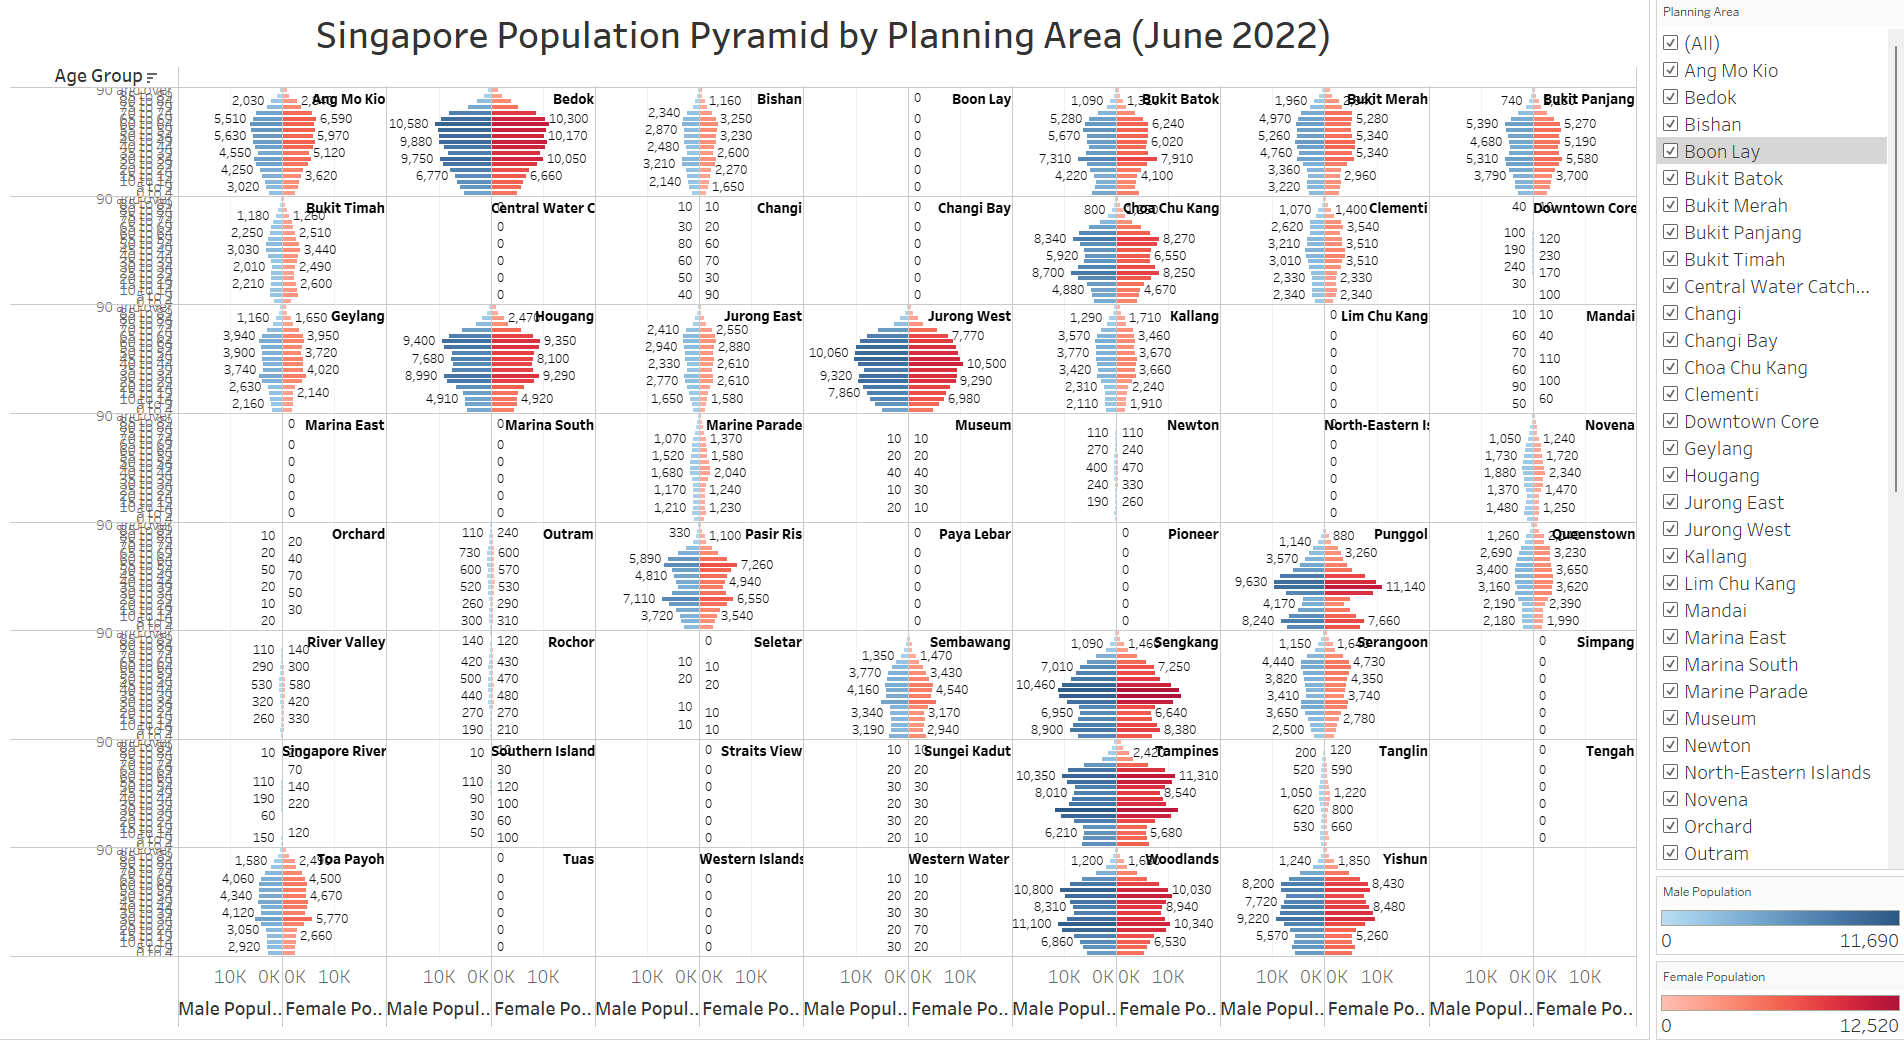
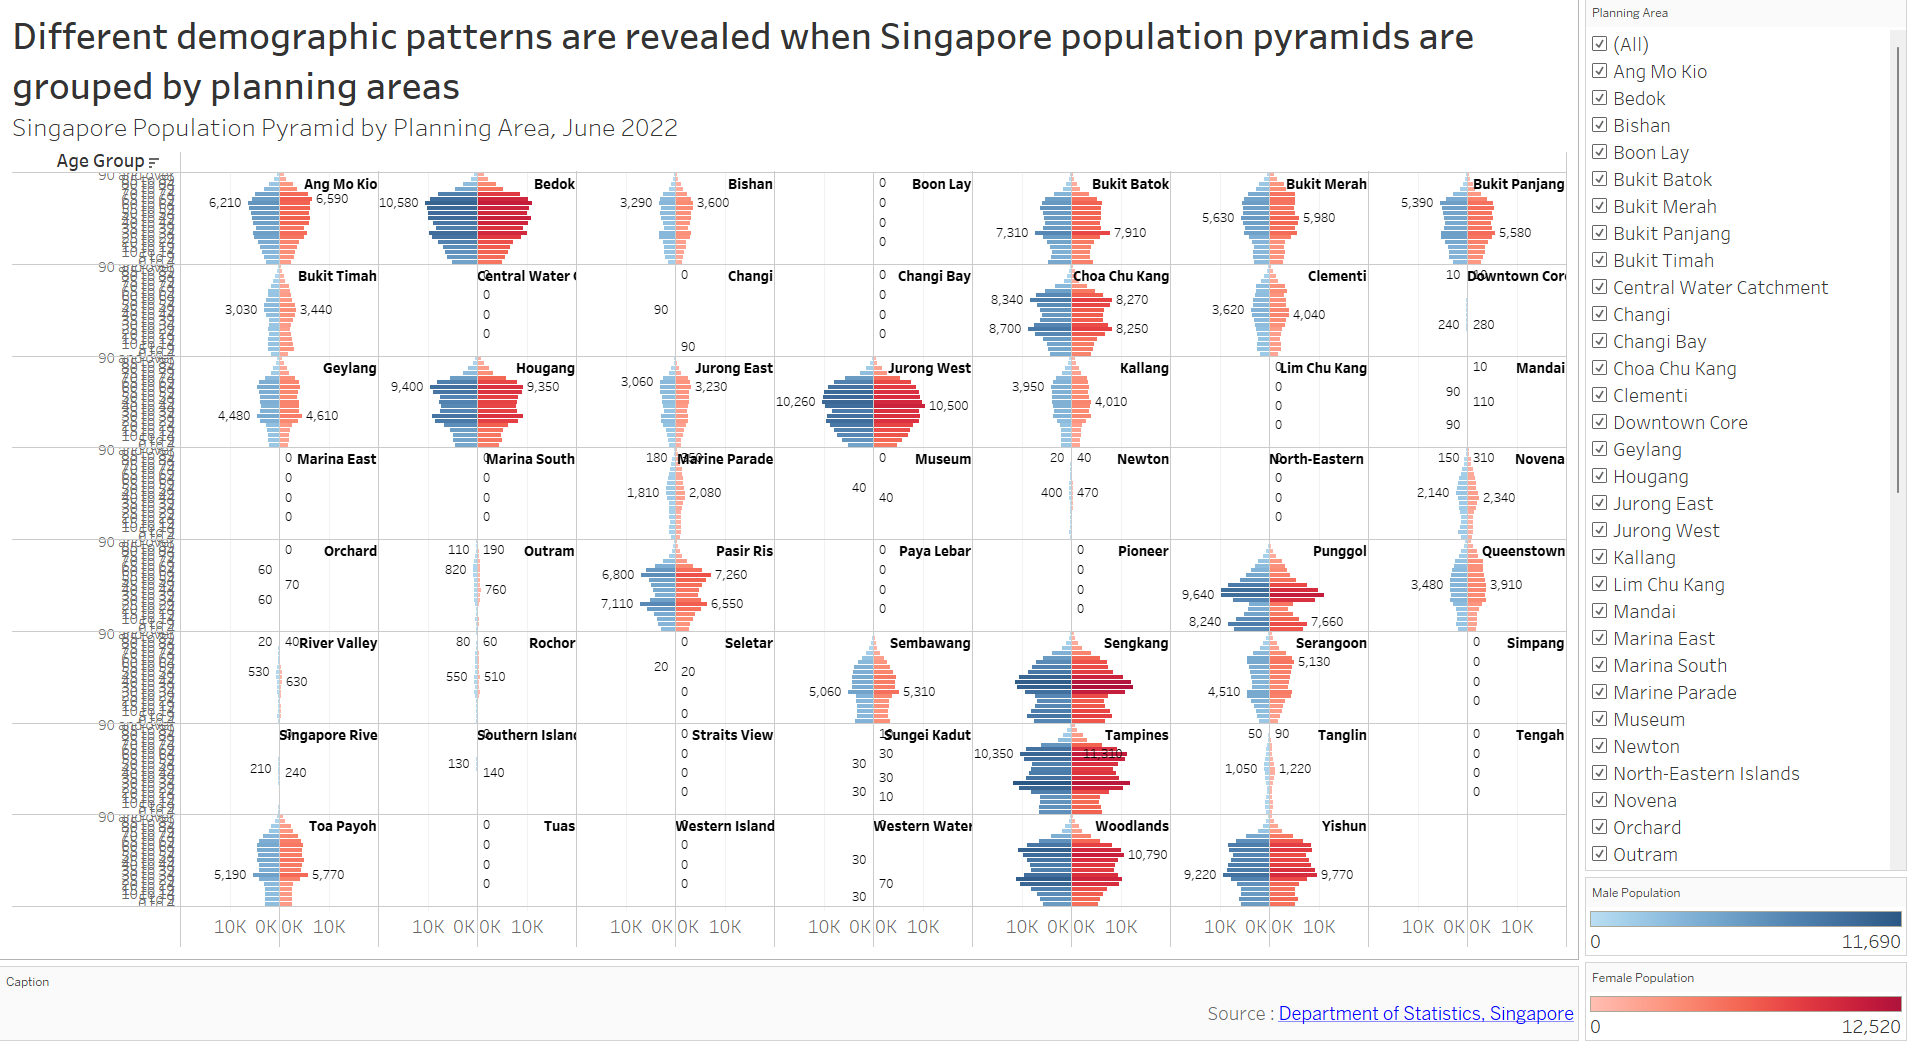
Commit after Take_Home_Exercise1 final

diff --git a/_site/Take-home_Ex/Take-home_Ex01/Take-home_Ex01.html b/_site/Take-home_Ex/Take-home_Ex01/Take-home_Ex01.html
@@ -7,7 +7,7 @@
 <meta name="viewport" content="width=device-width, initial-scale=1.0, user-scalable=yes">
 
 <meta name="author" content="Michael Djohan">
-<meta name="dcterms.date" content="2023-01-22">
+<meta name="dcterms.date" content="2023-01-21">
 
 <title>ISSS608 - Michael Djohan - Take-home Exercise 1</title>
 <style>
@@ -137,15 +137,16 @@ ul.task-list li input[type="checkbox"] {
   <li><a href="#step-by-step-description" id="toc-step-by-step-description" class="nav-link" data-scroll-target="#step-by-step-description"><strong>2. Step-by-Step Description</strong></a>
   <ul class="collapse">
   <li><a href="#loading-and-cleaning-data" id="toc-loading-and-cleaning-data" class="nav-link" data-scroll-target="#loading-and-cleaning-data">2.1 Loading and cleaning data</a></li>
-  <li><a href="#creating-calculated-fields-to-make-trellis-chart" id="toc-creating-calculated-fields-to-make-trellis-chart" class="nav-link" data-scroll-target="#creating-calculated-fields-to-make-trellis-chart">2.2 Creating calculated fields to make Trellis Chart</a></li>
-  <li><a href="#creating-the-trellis-chart" id="toc-creating-the-trellis-chart" class="nav-link" data-scroll-target="#creating-the-trellis-chart">2.3 Creating the Trellis Chart</a></li>
-  <li><a href="#creating-dynamic-labels" id="toc-creating-dynamic-labels" class="nav-link" data-scroll-target="#creating-dynamic-labels">2.4 Creating Dynamic Labels</a></li>
-  <li><a href="#final-dashboard" id="toc-final-dashboard" class="nav-link" data-scroll-target="#final-dashboard">2.5 Final Dashboard</a></li>
+  <li><a href="#creating-calculated-fields-to-make-trellis-chart" id="toc-creating-calculated-fields-to-make-trellis-chart" class="nav-link" data-scroll-target="#creating-calculated-fields-to-make-trellis-chart">2.2 Creating calculated fields to make trellis chart</a></li>
+  <li><a href="#creating-trellis-chart" id="toc-creating-trellis-chart" class="nav-link" data-scroll-target="#creating-trellis-chart">2.3 Creating trellis chart</a></li>
+  <li><a href="#creating-dynamic-labels" id="toc-creating-dynamic-labels" class="nav-link" data-scroll-target="#creating-dynamic-labels">2.4 Creating dynamic labels</a></li>
+  <li><a href="#final-touch-up-to-improve-aesthetics-and-clarity" id="toc-final-touch-up-to-improve-aesthetics-and-clarity" class="nav-link" data-scroll-target="#final-touch-up-to-improve-aesthetics-and-clarity">2.5 Final touch-up to improve aesthetics and clarity</a></li>
+  <li><a href="#final-dashboard" id="toc-final-dashboard" class="nav-link" data-scroll-target="#final-dashboard">2.6 Final Dashboard</a></li>
   </ul></li>
   <li><a href="#discussion" id="toc-discussion" class="nav-link" data-scroll-target="#discussion"><strong>3. Discussion</strong></a>
   <ul class="collapse">
   <li><a href="#unequal-population-distribution-by-planning-area" id="toc-unequal-population-distribution-by-planning-area" class="nav-link" data-scroll-target="#unequal-population-distribution-by-planning-area">3.1 Unequal population distribution by planning area</a></li>
-  <li><a href="#different-shapes-of-age-sex-pyramids-across-pas" id="toc-different-shapes-of-age-sex-pyramids-across-pas" class="nav-link" data-scroll-target="#different-shapes-of-age-sex-pyramids-across-pas">3.2 Different shapes of age-sex pyramids across PAs</a></li>
+  <li><a href="#different-shapes-of-age-sex-pyramids-across-pa" id="toc-different-shapes-of-age-sex-pyramids-across-pa" class="nav-link" data-scroll-target="#different-shapes-of-age-sex-pyramids-across-pa">3.2 Different shapes of age-sex pyramids across PA</a></li>
   <li><a href="#gender-ratio-on-each-pa-is-relatively-constant" id="toc-gender-ratio-on-each-pa-is-relatively-constant" class="nav-link" data-scroll-target="#gender-ratio-on-each-pa-is-relatively-constant"><strong>3.3 Gender Ratio on each PA is relatively constant</strong></a></li>
   <li><a href="#section" id="toc-section" class="nav-link" data-scroll-target="#section"></a></li>
   </ul></li>
@@ -175,7 +176,7 @@ ul.task-list li input[type="checkbox"] {
     <div>
     <div class="quarto-title-meta-heading">Published</div>
     <div class="quarto-title-meta-contents">
-      <p class="date">January 22, 2023</p>
+      <p class="date">January 21, 2023</p>
     </div>
   </div>
   
@@ -198,8 +199,8 @@ ul.task-list li input[type="checkbox"] {
 <table class="table">
 <colgroup>
 <col style="width: 5%">
-<col style="width: 15%">
-<col style="width: 80%">
+<col style="width: 30%">
+<col style="width: 65%">
 </colgroup>
 <thead>
 <tr class="header">
@@ -233,12 +234,12 @@ ul.task-list li input[type="checkbox"] {
 </table>
 </section>
 <section id="creating-calculated-fields-to-make-trellis-chart" class="level3">
-<h3 class="anchored" data-anchor-id="creating-calculated-fields-to-make-trellis-chart">2.2 Creating calculated fields to make Trellis Chart</h3>
+<h3 class="anchored" data-anchor-id="creating-calculated-fields-to-make-trellis-chart">2.2 Creating calculated fields to make trellis chart</h3>
 <table class="table">
 <colgroup>
 <col style="width: 5%">
-<col style="width: 15%">
-<col style="width: 80%">
+<col style="width: 30%">
+<col style="width: 65%">
 </colgroup>
 <thead>
 <tr class="header">
@@ -291,13 +292,13 @@ ul.task-list li input[type="checkbox"] {
 </tbody>
 </table>
 </section>
-<section id="creating-the-trellis-chart" class="level3">
-<h3 class="anchored" data-anchor-id="creating-the-trellis-chart">2.3 Creating the Trellis Chart</h3>
+<section id="creating-trellis-chart" class="level3">
+<h3 class="anchored" data-anchor-id="creating-trellis-chart">2.3 Creating trellis chart</h3>
 <table class="table">
 <colgroup>
 <col style="width: 5%">
-<col style="width: 15%">
-<col style="width: 80%">
+<col style="width: 30%">
+<col style="width: 65%">
 </colgroup>
 <thead>
 <tr class="header">
@@ -405,12 +406,12 @@ ul.task-list li input[type="checkbox"] {
 </table>
 </section>
 <section id="creating-dynamic-labels" class="level3">
-<h3 class="anchored" data-anchor-id="creating-dynamic-labels">2.4 Creating Dynamic Labels</h3>
+<h3 class="anchored" data-anchor-id="creating-dynamic-labels">2.4 Creating dynamic labels</h3>
 <table class="table">
 <colgroup>
 <col style="width: 5%">
-<col style="width: 15%">
-<col style="width: 80%">
+<col style="width: 30%">
+<col style="width: 65%">
 </colgroup>
 <thead>
 <tr class="header">
@@ -459,14 +460,69 @@ ul.task-list li input[type="checkbox"] {
 <p>Do the same for “Female Population”</p></td>
 <td><img src="images/value_label.png" class="img-fluid"></td>
 </tr>
+<tr class="even">
+<td>8</td>
+<td><p>Click on the Label of “SUM(Male Population)” tab and format it to “Min/Max” and “Pane” to only highlight the min and max values per pane</p>
+<p>Do the same for “Female Population”</p></td>
+<td><img src="images/value_label1.png" class="img-fluid"></td>
+</tr>
+<tr class="odd">
+<td>9</td>
+<td><p>To display values for special highlighted bar, right-click on individual bar, select Mark Label and tick Always Show</p>
+<p>This will highlight relevant individual bars (refer to Section 3)</p></td>
+<td><img src="images/value_label2.png" class="img-fluid"></td>
+</tr>
+</tbody>
+</table>
+</section>
+<section id="final-touch-up-to-improve-aesthetics-and-clarity" class="level3">
+<h3 class="anchored" data-anchor-id="final-touch-up-to-improve-aesthetics-and-clarity">2.5 Final touch-up to improve aesthetics and clarity</h3>
+<table class="table">
+<colgroup>
+<col style="width: 5%">
+<col style="width: 30%">
+<col style="width: 65%">
+</colgroup>
+<thead>
+<tr class="header">
+<th></th>
+<th>Step</th>
+<th>Screenshot</th>
+</tr>
+</thead>
+<tbody>
+<tr class="odd">
+<td>1</td>
+<td><p>Double-click on the title to add the title</p>
+<p>Subtitle can be easily added by adding a new line with different font size</p>
+<p>This will help users to understand the content and details of the dashboard</p></td>
+<td><img src="images/change_title.png" class="img-fluid"></td>
+</tr>
+<tr class="even">
+<td>2</td>
+<td>Click on Worksheet and click on Show Caption to show and edit the caption</td>
+<td><img src="images/caption.png" class="img-fluid"></td>
+</tr>
+<tr class="odd">
+<td>3</td>
+<td><p>Double-click on the caption box (red-box) and edit the caption</p>
+<p>In this case, we will add the source of the data. Format the text as shown on the right</p></td>
+<td><img src="images/caption1.png" class="img-fluid"></td>
+</tr>
+<tr class="even">
+<td>4</td>
+<td><p>We will remove the x-axis title as there is already label to indicate Male and Female Population</p>
+<p>To do this, double-click on the axis title and delete the Axis Title (red-box)</p></td>
+<td><img src="images/remove_axis.png" class="img-fluid"></td>
+</tr>
 </tbody>
 </table>
 </section>
 <section id="final-dashboard" class="level3">
-<h3 class="anchored" data-anchor-id="final-dashboard">2.5 Final Dashboard</h3>
+<h3 class="anchored" data-anchor-id="final-dashboard">2.6 Final Dashboard</h3>
 <p>The final dashboard is shown in Figure 1 below.</p>
 <p>The default display shows age-sex (population) pyramid (June 2022) grouped by Singapore planning area in 3x3 trellis display. The user(s) will be able to select any planning areas of interest using the filter feature on the right without any restriction in number of choice. This gives them freedom to choose any planning areas of interest for study or comparison purposes.</p>
-<p>Note that the title of the dashboard is changed to <em>“Singapore Population Pyramid by Planning Area (June 2022)”</em> to give better describe the dashboard.</p>
+<p>Note that the title and subtitle of the dashboard to highlight the purpose and the details of the visualization. The rationale in selecting the nine default planning areas will be explained in Section 3 below.</p>
 <div class="quarto-figure quarto-figure-center">
 <figure class="figure">
 <p><img src="images/final_look.png" class="img-fluid figure-img"></p>
@@ -502,8 +558,8 @@ ul.task-list li input[type="checkbox"] {
 </div>
 <p>As such, it makes sense to show the absolute population instead of percentage of PA population in the x-axis to showcase this unequal distribution. On top of that, we will exclude non-residential PAs from the analysis as they hold little significance.</p>
 </section>
-<section id="different-shapes-of-age-sex-pyramids-across-pas" class="level3">
-<h3 class="anchored" data-anchor-id="different-shapes-of-age-sex-pyramids-across-pas">3.2 Different shapes of age-sex pyramids across PAs</h3>
+<section id="different-shapes-of-age-sex-pyramids-across-pa" class="level3">
+<h3 class="anchored" data-anchor-id="different-shapes-of-age-sex-pyramids-across-pa">3.2 Different shapes of age-sex pyramids across PA</h3>
 <p>From Figure 2 above, we can analyze not only the total population, but also the varying shapes of the pyramids across PAs. These pyramids have common features like thinning population at their pinnacles (eldest age-group) and thicker middle age-groups. However, there are notable differences as well.</p>
 <p>Referring to Figure 4 below, Bedok, Jurong West, and Ang Mo Kio pyramids are more rounded-shaped. Their highest age-group proportions lie around 50-70 years, with thinner population in other age-groups, indicating aging population.</p>
 <p>On the other hand, Chua Chu Kang, Pasir Ris and Tampines still have high 50-70 years age-group population, but there is clear emerging young populations (20-35 years), making the pyramids look more like arrow-shaped. These trends are more prominent on the younger towns. Punggol is an extreme case with highly accentuated 35-45 and 5-10 years age groups.</p>
@@ -525,7 +581,8 @@ ul.task-list li input[type="checkbox"] {
 </figure>
 </div>
 <p>To illustrate this, we can examine Jurong West and Punggol age-sex pyramids closely. Jurong West pyramids look rounded. Meanwhile, Punggol has a completely different arrow-shaped pyramid. Despite these differences, the proportion of male vs female population remains rather constant for different age groups (mirror-image across central axis). This observation is quite consistent across different PAs chosen.</p>
-<p>It is noted, however, that at the higher age group, there tend to be more females than males. This is shown most clearly in Bedok PA (90 and over) with 1440 females vs 660 males. Combining this information with relatively uniform gender-ratio at the lower age group, this could be explained by higher life expectancy of females.</p>
+<p>It is noted, however, that at the higher age group, there tend to be more females than males. This is shown most clearly in Bedok (90 and over) with 1440 females vs 660 males. Combining this information with relatively uniform gender-ratio at the lower age group, this could be explained by higher life expectancy of females.</p>
+<p>Regardless, this trend was also observed in Figure 4 as well. Hence it was decided to select Figure 4 as the default PA filter as it highlights variations in pyramid shapes and total population.</p>
 </section>
 <section id="section" class="level3">
 <h3 class="anchored" data-anchor-id="section"></h3>

diff --git a/_site/Hands-on_Ex/Hands-on_Ex01/Hands-on_Ex01.html b/_site/Hands-on_Ex/Hands-on_Ex01/Hands-on_Ex01.html
@@ -7,7 +7,7 @@
 <meta name="viewport" content="width=device-width, initial-scale=1.0, user-scalable=yes">
 
 <meta name="author" content="Michael Djohan">
-<meta name="dcterms.date" content="2023-01-14">
+<meta name="dcterms.date" content="2023-01-21">
 
 <title>ISSS608 - Michael Djohan - Hands-on Exercise 1</title>
 <style>
@@ -199,6 +199,7 @@ code span.wa { color: #60a0b0; font-weight: bold; font-style: italic; } /* Warni
   <li><a href="#getting-started" id="toc-getting-started" class="nav-link active" data-scroll-target="#getting-started"><strong>1. Getting Started</strong></a>
   <ul class="collapse">
   <li><a href="#install-and-launching-r-packages." id="toc-install-and-launching-r-packages." class="nav-link" data-scroll-target="#install-and-launching-r-packages.">Install and launching R packages.</a></li>
+  <li><a href="#importing-the-data" id="toc-importing-the-data" class="nav-link" data-scroll-target="#importing-the-data">Importing the data</a></li>
   </ul></li>
   <li><a href="#try-it-yourself-exercise" id="toc-try-it-yourself-exercise" class="nav-link" data-scroll-target="#try-it-yourself-exercise">2. Try-It-Yourself Exercise</a>
   <ul class="collapse">
@@ -231,7 +232,7 @@ code span.wa { color: #60a0b0; font-weight: bold; font-style: italic; } /* Warni
     <div>
     <div class="quarto-title-meta-heading">Published</div>
     <div class="quarto-title-meta-contents">
-      <p class="date">January 14, 2023</p>
+      <p class="date">January 21, 2023</p>
     </div>
   </div>
   
@@ -249,12 +250,12 @@ code span.wa { color: #60a0b0; font-weight: bold; font-style: italic; } /* Warni
 <div class="cell">
 <div class="sourceCode cell-code" id="cb1"><pre class="sourceCode r code-with-copy"><code class="sourceCode r"><span id="cb1-1"><a href="#cb1-1" aria-hidden="true" tabindex="-1"></a>pacman<span class="sc">::</span><span class="fu">p_load</span>(tidyverse)</span></code><button title="Copy to Clipboard" class="code-copy-button"><i class="bi"></i></button></pre></div>
 </div>
-<section id="importing-the-data" class="level4">
-<h4 class="anchored" data-anchor-id="importing-the-data">Importing the data</h4>
+</section>
+<section id="importing-the-data" class="level3">
+<h3 class="anchored" data-anchor-id="importing-the-data">Importing the data</h3>
 <div class="cell">
 <div class="sourceCode cell-code" id="cb2"><pre class="sourceCode r code-with-copy"><code class="sourceCode r"><span id="cb2-1"><a href="#cb2-1" aria-hidden="true" tabindex="-1"></a>exam_data <span class="ot">&lt;-</span> <span class="fu">read_csv</span>(<span class="st">"data/Exam_data.csv"</span>)</span></code><button title="Copy to Clipboard" class="code-copy-button"><i class="bi"></i></button></pre></div>
 </div>
-</section>
 </section>
 </section>
 <section id="try-it-yourself-exercise" class="level2">

diff --git a/_site/Hands-on_Ex/Hands-on_Ex02/Hands-on_Ex02.html b/_site/Hands-on_Ex/Hands-on_Ex02/Hands-on_Ex02.html
@@ -7,9 +7,9 @@
 <meta name="viewport" content="width=device-width, initial-scale=1.0, user-scalable=yes">
 
 <meta name="author" content="Michael Djohan">
-<meta name="dcterms.date" content="2023-01-20">
+<meta name="dcterms.date" content="2023-01-21">
 
-<title>ISSS608 - Michael Djohan - Hands-on Exercise 2</title>
+<title>ISSS608 - Michael Djohan - Hands-on Exercise 2: Creating Elegant Graphics with ggplot2</title>
 <style>
 code{white-space: pre-wrap;}
 span.smallcaps{font-variant: small-caps;}
@@ -214,7 +214,7 @@ code span.wa { color: #60a0b0; font-weight: bold; font-style: italic; } /* Warni
 
 <header id="title-block-header" class="quarto-title-block default">
 <div class="quarto-title">
-<h1 class="title">Hands-on Exercise 2</h1>
+<h1 class="title">Hands-on Exercise 2: Creating Elegant Graphics with ggplot2</h1>
 </div>
 
 
@@ -231,7 +231,7 @@ code span.wa { color: #60a0b0; font-weight: bold; font-style: italic; } /* Warni
     <div>
     <div class="quarto-title-meta-heading">Published</div>
     <div class="quarto-title-meta-contents">
-      <p class="date">January 20, 2023</p>
+      <p class="date">January 21, 2023</p>
     </div>
   </div>
   
@@ -245,7 +245,7 @@ code span.wa { color: #60a0b0; font-weight: bold; font-style: italic; } /* Warni
 <h2 class="anchored" data-anchor-id="getting-started"><strong>1. Getting Started</strong></h2>
 <section id="install-and-launching-r-packages." class="level3">
 <h3 class="anchored" data-anchor-id="install-and-launching-r-packages.">Install and launching R packages.</h3>
-<p>The code chunk below uses p_load() of pacman package to check if tidyverse packages are installed in the computer. If they are, then they will be launched into R.</p>
+<p>The code chunk below uses p_load() of pacman package to check if packages are installed in the computer. If they are, then they will be launched into R.</p>
 <div class="cell">
 <div class="sourceCode cell-code" id="cb1"><pre class="sourceCode r code-with-copy"><code class="sourceCode r"><span id="cb1-1"><a href="#cb1-1" aria-hidden="true" tabindex="-1"></a>pacman<span class="sc">::</span><span class="fu">p_load</span>(tidyverse, ggdist, ggridges, </span>
 <span id="cb1-2"><a href="#cb1-2" aria-hidden="true" tabindex="-1"></a>               patchwork, ggthemes, hrbrthemes, </span>
